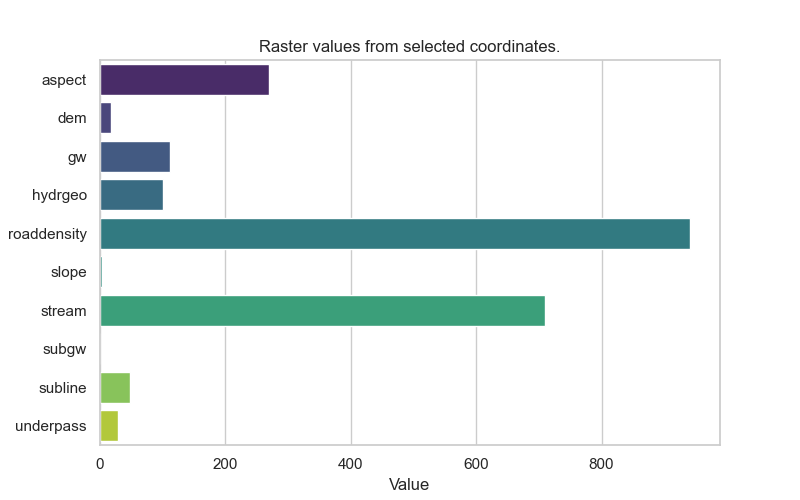
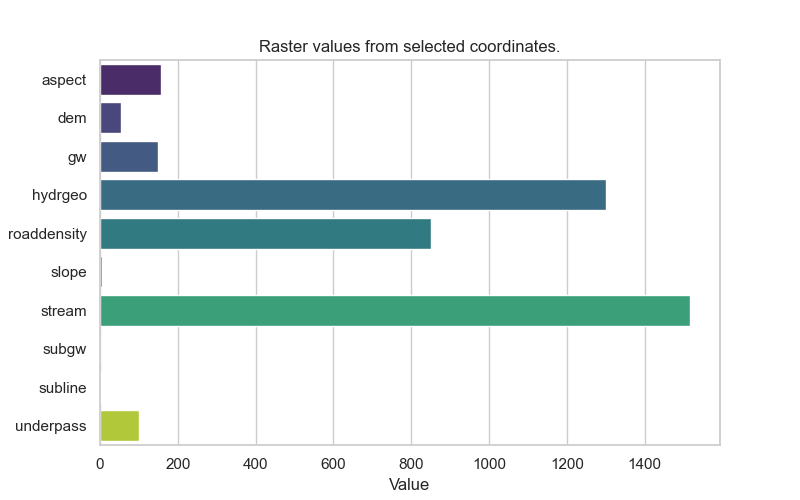
환경변수 한글로

diff --git a/templates/index.html b/templates/index.html
@@ -90,8 +90,8 @@
                 <!-- <div class="col-md-6">           
                         <div id="chart" class="backg" ></div>    
                 </div>  -->
-                <div class="col-md-6 d-flex align-middle backg" style="width: 100%;height: 500px;">
-                    <canvas  id="myChart"></canvas>
+                <div class="col-md-6 d-flex align-middle backg">
+                    <canvas  id="myChart" style="width: 100%;height: 500px;"></canvas>
                 </div>                
             </div>
 
@@ -105,8 +105,9 @@
                     PREDICTING...
                 </button>
 
-                <div id ="coord"></div>  
-                <div id="result" class="card-body" style="height: 120px;">    
+                <div class="coord_result">
+                    <div id ="coord" ></div>  
+                    <div id= "result"> </div>
                 </div>
                               
             </div> 
@@ -255,6 +256,7 @@
         function predictResults(latitude, longitude){
 
             infoWindow.close();
+
             document.getElementById('result').innerHTML = '';
             // document.getElementById('chart').innerText = '';
             $('#coord').html("")
@@ -278,7 +280,7 @@
                         console.log(response.env_val);
                        
 
-                        myChart.data.labels = response.env_name;
+                        // myChart.data.labels = response.env_name;
                         myChart.data.datasets[0].data = response.env_val;
 
                         
@@ -292,7 +294,7 @@
                         } else if (response.results !==null && response.results == "안전지대"){
                             $('#result').html('<div ><span class="badge badge-success">관심</span><h3>씽크홀 발생위험 안전지대'+ ', 발생위험확률(' + response.pred_val + ')입니다.</h3></div>');
                         } else {
-                            $('#result').html('<div><h3>선택한 지점은 서울시 경계를 벗어났거나 한강입니다. 다시 선택하세요.</h3></div>');
+                            $('#result').html('<div><span class="badge badge-success">지점오류</span><h3>선택한 지점은 서울시 경계를 벗어났거나 한강입니다. 다시 선택하세요.</h3></div>');
                         }
 
 
@@ -307,7 +309,7 @@
                        //     $('#chart').html('<p>선택된 지점은 서울특별시 경계를 벗어났습니다. 다시 선택하세요.</p>');
                        // }
 
-                        $('#coord').html('<div style-"padding:10;"><h3>선택된 지점은 경도: '+  longitude + ' 위도: ' +  latitude +'</h3></div>');
+                        $('#coord').html('<div><span class="badge badge-success">선택지점</span><h3>선택된 지점은 경도: '+  longitude + ' 위도: ' +  latitude +'</h3></div>');
                         
                         // console.log(e.coord)                    
                         myChart.update();
@@ -500,12 +502,17 @@
                     htmlAddresses.push('[영문명 주소] ' + item.englishAddress);
                 }
 
-                infoWindow.setContent([
-                    '<div style="padding:5px;min-width:100px;line-height:100%;">',
-                    '<h6 style="margin-top:1px;">검색 주소 : '+ address +'</h6><br />',
-                    htmlAddresses.join('<br />'),
+                // infoWindow.setContent([
+                //     '<div style="padding:5px;min-width:100px;line-height:100%;">',
+                //     '<h6 style="margin-top:1px;">검색 주소 : '+ address +'</h6><br />',
+                //     htmlAddresses.join('<br />'),
+                //     '</div>'
+                // ].join('\n'));
+
+                infoWindow.setContent([                                       
+                    '<div class="alert alert-primary">예측하기 버튼을 누르세요',                    
                     '</div>'
-                ].join('\n'));
+                ].join(''));
                
 
                 map.setCenter(point);
@@ -696,32 +703,35 @@
 
    
 
-    <script>
+    <script>   
 
-    
-
-    const ctx = document.getElementById('myChart');      
-    
-
+    const ctx = document.getElementById('myChart');     
     var myChart = new Chart(ctx, {
         type: 'bar',
         data: {
-            labels: chart_env_name,
+            // labels: chart_env_name,
+            labels: ['사면향', '해발고도', '유출지하수','수문지질', '도로밀도', '경사', '수계에서거리','역사유출지하수', '지하철노선', '지하차도'],
 
             datasets: [{
                 label: '환경변수',
                 data: chart_env_val,
-                backgroundColor: 'rgba(75, 192, 192,0.6)',
-                borderColor: 'rgba(75, 192, 192, 1)',
+                backgroundColor: 'rgba(255, 255, 255,0.6)',
+                borderColor: 'rgba(255, 255, 255,0.6)',
                 borderWidth: 1
                 
             }]
         },
         options: {
             indexAxis: 'y',
+            legend: {
+                labels: {
+                    fontColor: "white",
+                    fontSize: 18
+                }
+            },
             scales: {
                 y: {
-                    ticks: { color: 'white', beginAtZero: true }
+                    ticks: { color: 'white', beginAtZero: true}
                 },
                 x: {
                     ticks: { color: 'white', beginAtZero: true }

diff --git a/static/data/css/style.css b/static/data/css/style.css
@@ -17,3 +17,13 @@ a{
     font-weight: 700;      
 }
 
+
+.coord_result{
+    display: flex;
+    align-items: center;
+    
+    justify-content: space-around;
+    
+   
+}
+

diff --git a/server.py b/server.py
@@ -57,15 +57,26 @@ def process_coordinates():
     lon = float(data['longitude']) 
     # print("aa",lon, lat)   
 
+    ko_env_name =[]
+
     try:   
 
-        values = [extract_values_from_raster(lat, lon, raster_path) for raster_path in raster_file_paths]
+        values = [extract_values_from_raster(lat, lon, raster_path) for raster_path in raster_file_paths] 
+        print(values)       
+
+        r_names = [os.path.basename(raster_path).split('.')[0].split('_')[0] for raster_path in raster_file_paths]
+
+        for r_name in r_names:
+            print(r_name)
+            
+            if r_name == "hydrgeo_84": 
+                ko_env_name.append("수문지질학")
+                values[r_names.index(r_name)] = values[r_names.index(r_name)] * 100
 
         
-
-        r_names = [os.path.basename(raster_path).split('.')[0] for raster_path in raster_file_paths]
+        print(ko_env_name)
         
-        print(values)
+        
 
         pred_class = None
         str_val1 = None
@@ -97,10 +108,9 @@ def process_coordinates():
                 pred_class = '안전지대'  
 
             # print(pred_class)
-
             # Create a bar chart and convert it to base64 for embedding in HTML
-            chart_img = create_bar_chart(r_names, values)
-            chart_base64 = base64.b64encode(chart_img.getvalue()).decode('utf-8')
+            # chart_img = create_bar_chart(r_names, values)
+            # chart_base64 = base64.b64encode(chart_img.getvalue()).decode('utf-8')
 
         return jsonify({'chart_base64': chart_base64, 'results': pred_class, 'pred_val' :  str_val1, 'env_name':r_names, 'env_val':values})
 
